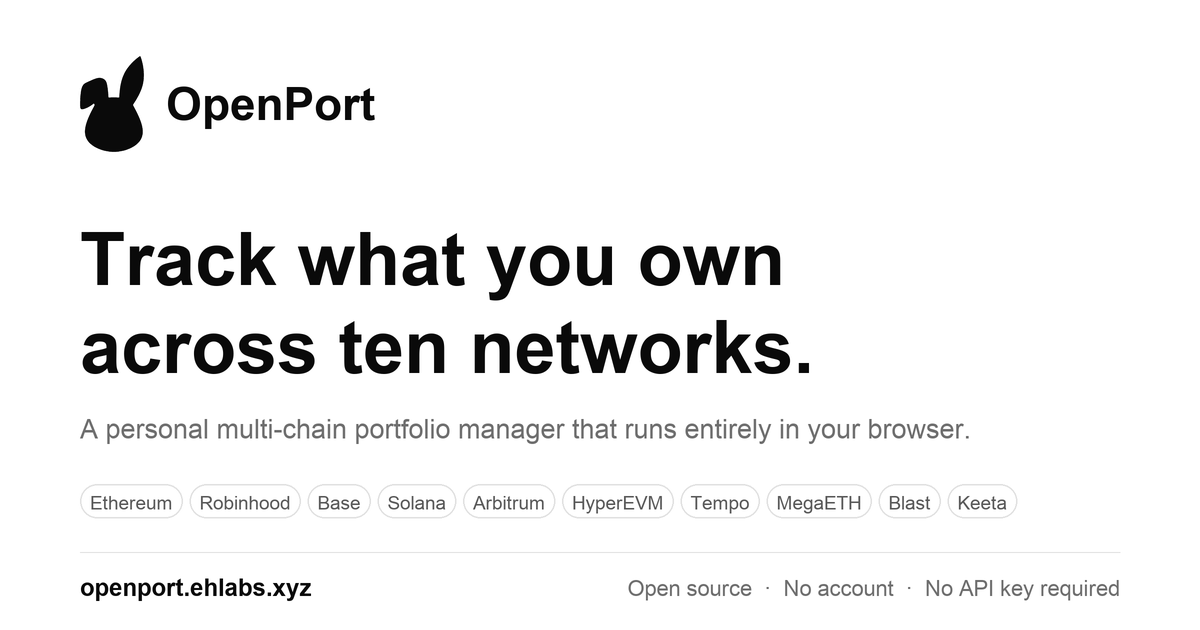
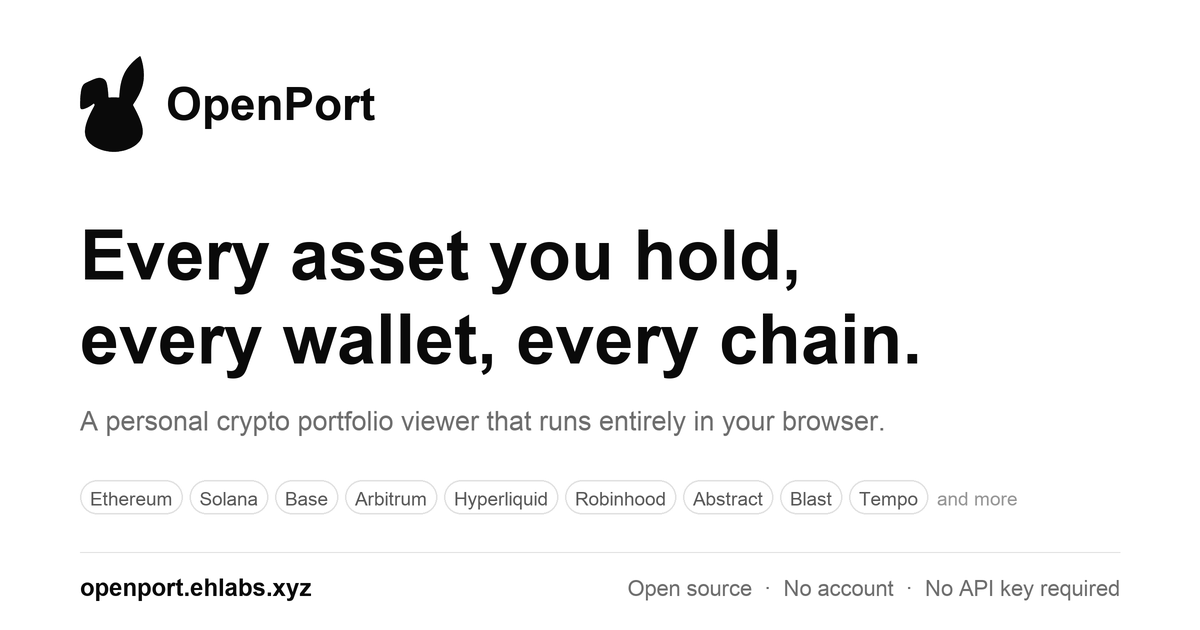
feat: add Abstract, and drop hard-coded network counts from the copy
Abstract (chain 2741) uses only its official endpoint: the drpc mirror answers
but reports no Multicall3 at the canonical address, which would silently break
batching. Alchemy support is wired too, so a key unlocks token discovery, NFTs
and tax export there.

Every "ten networks" / "eleven networks" in the copy, metadata and social card
is replaced with phrasing that does not go stale the next time a chain is
added. The README badge no longer carries a number either.

diff --git a/src/app/layout.tsx b/src/app/layout.tsx
@@ -58,7 +58,7 @@ export const metadata: Metadata = {
     title:
       "OpenPort — Multi-Chain Crypto Portfolio Tracker (Ethereum, Solana, Base)",
     description:
-      "Track what you own across ten networks. No account, no backend, no API key required.",
+      "Track every asset you hold, across every wallet and blockchain you use. No account, no backend, no API key required.",
     url: "https://openport.ehlabs.xyz",
     siteName: "OpenPort",
     type: "website",
@@ -67,7 +67,7 @@ export const metadata: Metadata = {
         url: "/og.png",
         width: 1200,
         height: 630,
-        alt: "OpenPort — track what you own across ten networks",
+        alt: "OpenPort — every asset, every wallet, every chain, in one place",
       },
     ],
   },
@@ -76,7 +76,7 @@ export const metadata: Metadata = {
     title:
       "OpenPort — Multi-Chain Crypto Portfolio Tracker (Ethereum, Solana, Base)",
     description:
-      "Track what you own across ten networks. No account, no backend, no API key required.",
+      "Track every asset you hold, across every wallet and blockchain you use. No account, no backend, no API key required.",
     images: ["/og.png"],
   },
   alternates: { canonical: "https://openport.ehlabs.xyz" },

diff --git a/src/app/tax/layout.tsx b/src/app/tax/layout.tsx
@@ -5,7 +5,7 @@ import type { Metadata } from 'next';
 export const metadata: Metadata = {
     title: 'Crypto Tax Export — Download Wallet History as CSV | OpenPort',
     description:
-        'Export any wallet\'s transaction history to CSV for tax filing. Supports Ethereum, Base, Arbitrum, Solana, Robinhood Chain, Blast, MegaETH and Keeta. Free and open source.',
+        'Export any wallet\'s transaction history to CSV for tax filing. Supports Ethereum, Base, Arbitrum, Solana, Hyperliquid, Abstract and more. Free and open source.',
     keywords: [
         'crypto tax export',
         'wallet transaction history CSV',
@@ -18,7 +18,7 @@ export const metadata: Metadata = {
     openGraph: {
         title: 'Crypto Tax Export — Download Wallet History as CSV',
         description:
-            'Export any wallet\'s transaction history to CSV for tax filing, across ten networks.',
+            'Export any wallet\'s transaction history to CSV for tax filing, across every supported blockchain.',
         url: 'https://openport.ehlabs.xyz/tax',
         siteName: 'OpenPort',
         type: 'website',

diff --git a/src/lib/chains.ts b/src/lib/chains.ts
@@ -126,6 +126,26 @@ export const CHAINS: Record<string, ChainConfig> = {
         logo: '/assets/arb.svg',
         addressValidator: isEvmAddress,
     },
+    abstract: {
+        id: 'abstract',
+        name: 'Abstract',
+        displayName: 'Abstract Mainnet',
+        kind: 'evm',
+        chainId: 2741,
+        alchemySlug: 'abstract-mainnet',
+        // Only the official endpoint: the drpc mirror reports no Multicall3 at
+        // the canonical address, which would silently break batching.
+        publicRpcs: ['https://api.mainnet.abs.xyz'],
+        explorerUrl: 'https://abscan.org',
+        nativeSymbol: 'ETH',
+        nativeDecimals: 18,
+        coingeckoId: 'ethereum',
+        multicall3: MULTICALL3,
+        color: '#29E58A',
+        short: 'A',
+        logo: '/assets/abstract.svg',
+        addressValidator: isEvmAddress,
+    },
     hypercore: {
         id: 'hypercore',
         name: 'Hyperliquid',
@@ -304,6 +324,7 @@ export const CHAIN_ORDER = [
     'arbitrum',
     'hyperliquid',
     'hypercore',
+    'abstract',
     'tempo',
     'megaeth',
     'blast',

diff --git a/src/components/Footer.tsx b/src/components/Footer.tsx
@@ -24,7 +24,7 @@ export function Footer() {
                     </div>
                     <p className="text-xs text-muted-foreground leading-relaxed max-w-xs">
                         A personal multi-chain portfolio manager. Track what you own
-                        across ten networks and export it for tax season.
+                        across every wallet and blockchain you use, and export it for tax season.
                     </p>
                 </div>
 

diff --git a/src/lib/tokenlist.ts b/src/lib/tokenlist.ts
@@ -105,6 +105,7 @@ export const TOKENS: Record<string, TokenDef[]> = {
     // No canonical token addresses confirmed for these yet. Native balance
     // only in keyless mode; an Alchemy key gives full discovery.
     hyperliquid: [],
+    abstract: [],
     robinhood: [],
     megaeth: [],
     tempo: [],

diff --git a/README.md b/README.md
@@ -4,14 +4,14 @@
 
 **A personal multi-chain portfolio manager that runs entirely in your browser.**
 
-Track what you own across eleven networks. No account, no backend, no API key required.
+Track every asset you hold, across every wallet and blockchain you use. No account, no backend, no API key required.
 
 **[→ Try it live at openport.ehlabs.xyz](https://openport.ehlabs.xyz)**
 
 [![License: MIT](https://img.shields.io/badge/License-MIT-green.svg)](LICENSE)
 ![Next.js](https://img.shields.io/badge/Next.js-16-black)
 ![TypeScript](https://img.shields.io/badge/TypeScript-5-3178C6)
-![Networks](https://img.shields.io/badge/networks-11-6366f1)
+![Networks](https://img.shields.io/badge/multi--chain-EVM%20%C2%B7%20Solana%20%C2%B7%20Hyperliquid-6366f1)
 
 </div>
 
@@ -62,6 +62,7 @@ and no private key input anywhere in the codebase.
 | Arbitrum One | 42161 | EVM | ✅ |
 | Hyperliquid HyperEVM | 999 | EVM | ✅ |
 | Hyperliquid HyperCore | — | native L1 | ✅ |
+| Abstract | 2741 | EVM (ZK rollup) | ✅ |
 | Tempo | 4217 | EVM | ✅ |
 | MegaETH | 4326 | EVM | ✅ |
 | Blast | 81457 | EVM | ✅ |
